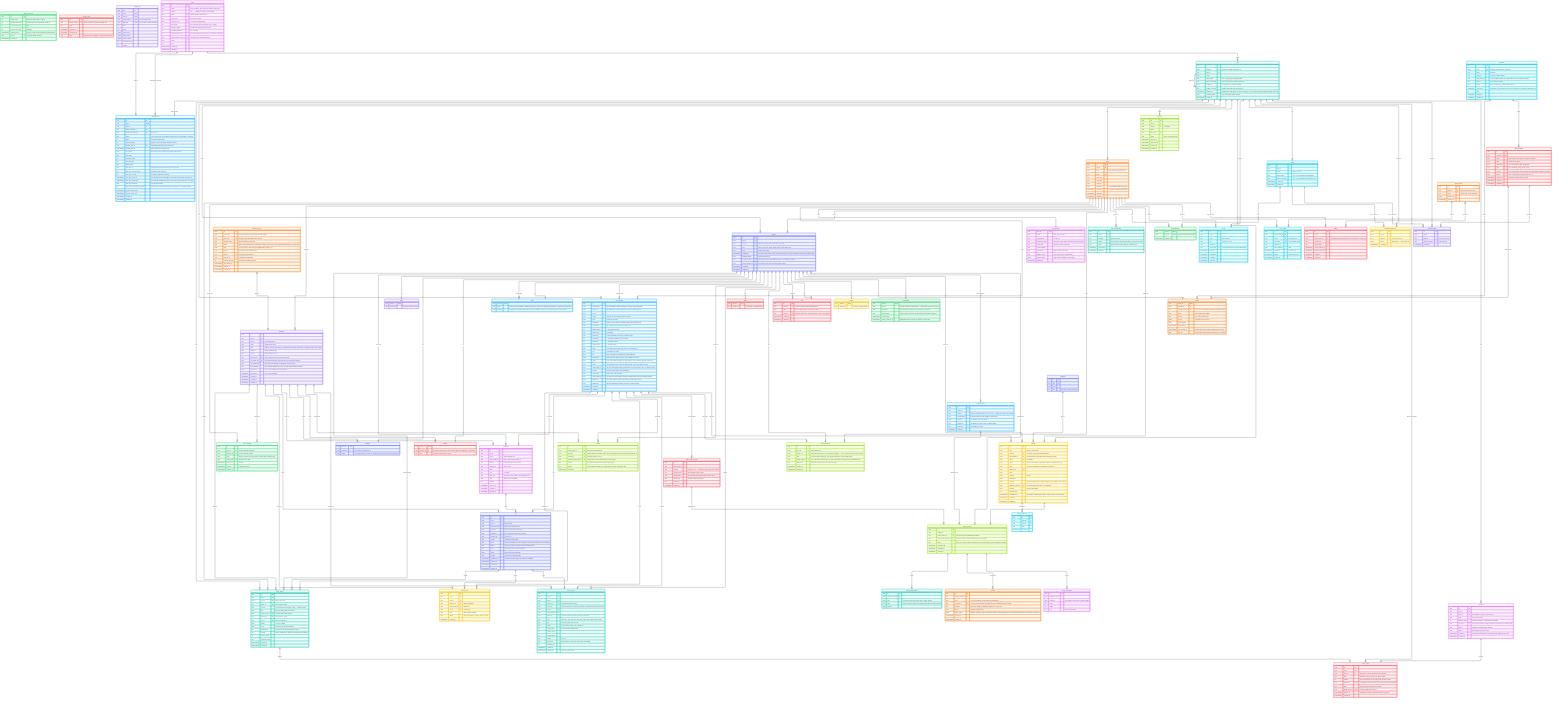
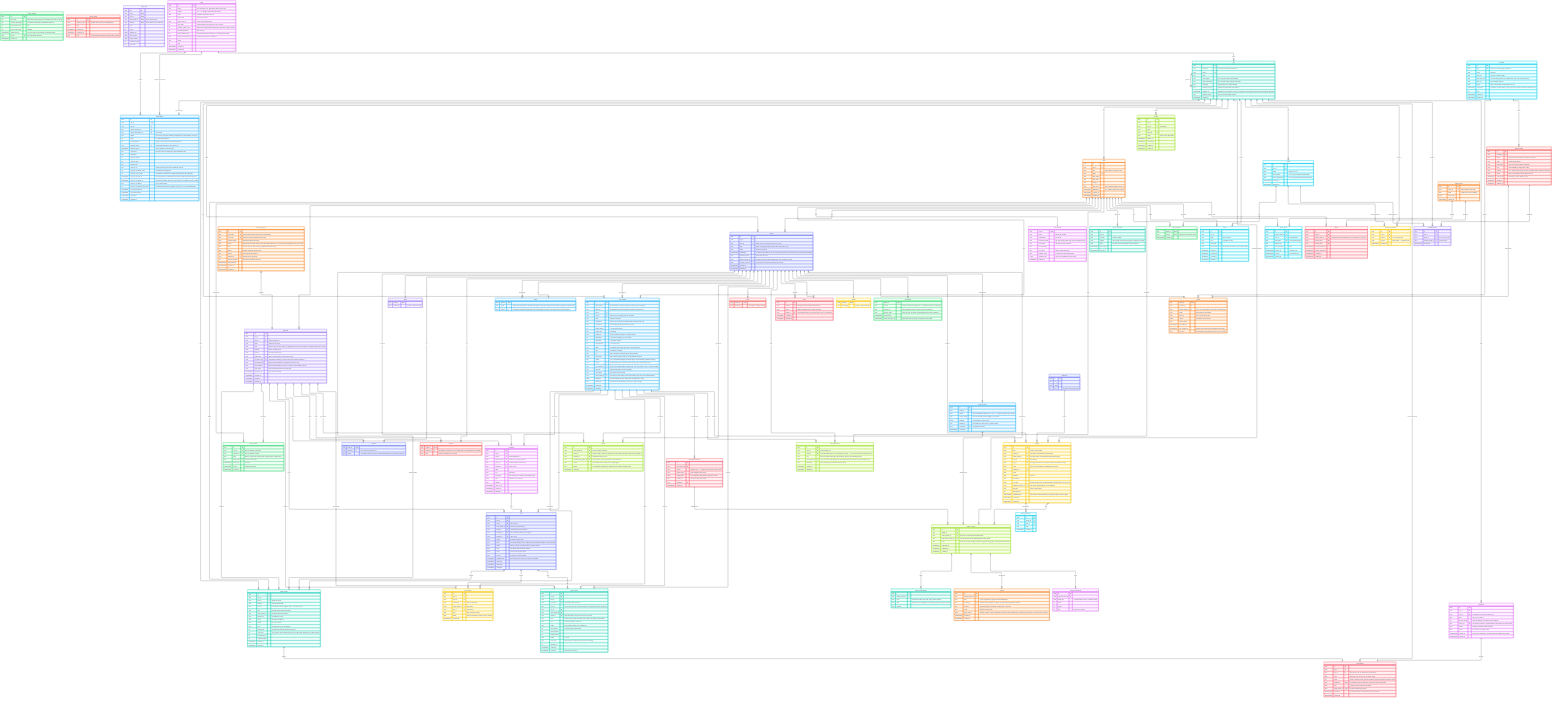
Credits are dollars, as Anthropic's are: balance, allowance, top-ups and charges kept and shown in dollars (cents); a connection call is 2¢ per started 30 seconds; auto top-up reloads to a target balance; plans' included usage credit re-picked below each plan's price ($1, $10, $10 a seat, $50 a seat

diff --git a/docs/architecture.md b/docs/architecture.md
@@ -257,8 +257,8 @@ Decided 2026-10-11. Two UIs, split by isolation:
 
 **Usage and billing** read the server's usage events and credit ledger through the API, scoped as the data model says (a user their own, an org admin the org, a super admin every org):
 
-- **Usage:** the period's credits used and left, then the same calls grouped by user, by connector, by super power, by machine and by day, and the call log under it: time, user, super power, machine, connector, tool, duration, credits and status, filtered by any of them and exported as CSV. Each row opens to its full detail.
-- **Billing** (org admins): the plan, seats, included and extra machines, the period's dates, the credit allowance and packs with their ledger, upgrading, buying a pack, and Stripe's own pages for checkout, invoices and payment methods.
+- **Usage:** the period's credit used and left, in dollars, then the same calls grouped by user, by connector, by super power, by machine and by day, and the call log under it: time, user, super power, machine, connector, tool, duration, credits and status, filtered by any of them and exported as CSV. Each row opens to its full detail.
+- **Billing** (org admins): the plan, seats, included and extra machines, the period's dates, the included usage credit, the balance and its ledger in dollars, upgrading, adding funds, and Stripe's own pages for checkout, invoices and payment methods.
 
 The API behind them is three operations, also MCP tools so an agent can answer "what did we spend on Gmail this month": a summary grouped by one dimension over a time range, the call log (filtered, newest first, paged by cursor), and the balance with its ledger.
 
@@ -404,7 +404,7 @@ erDiagram
         int price_cents "per seat, per month"
         text stripe_price_id UK "null for Free and Enterprise"
         int max_seats "the most seats an org may have; null = no limit"
-        int monthly_credits "included each billing period, per seat"
+        int monthly_credit_cents "usage credit included each billing period, per seat, in dollars (cents)"
         int included_machines "null = no limit"
         int extra_machine_cents "per extra machine per month; null = no extras on this plan"
         text stripe_machine_price_id UK "the Stripe price extras are billed on"
@@ -701,7 +701,7 @@ erDiagram
         text billing_email
         bool auto_top_up "charge the card on file when the balance runs low"
         int auto_top_up_below_cents "the balance that triggers it"
-        int auto_top_up_cents "how much it adds: $5 to $10,000"
+        int auto_top_up_to_cents "the balance it reloads to (it charges the difference, $5 to $10,000)"
         timestamptz auto_top_up_last_at "the last attempt: one attempt per 10 minutes, taken under the org's lock"
         timestamptz auto_top_up_failed_at "the card was refused: auto top-up is off until an org admin turns it on again"
         text auto_top_up_failure "why, as Stripe said it"
@@ -717,7 +717,7 @@ erDiagram
         uuid org_id FK
         uuid user_id FK "who spent it; null for allowances and purchases"
         text entry "allowance, top_up, auto_top_up, grant, usage"
-        int credits "plus for allowance, top-ups and grants, minus for usage"
+        int cents "credit, in dollars (cents): plus for allowance, top-ups and grants, minus for usage"
         uuid payment_id FK, UK "the payment a top-up came from; at most one entry per payment"
         text note "a grant's reason, from the super admin"
         uuid usage_event_id FK, UK "the call a usage entry pays for"
@@ -738,7 +738,7 @@ erDiagram
         text status "ok, error, refused"
         text error "the reason, for error and refused"
         int duration_ms "the time the call took, timed by the server"
-        int credits "max(1, ceil(seconds / 30)) for a call made; 0 when refused"
+        int cost_cents "call_cents for each started seconds_per_charge (2¢ per started 30 s); 0 when refused"
         int request_bytes
         int response_bytes
         timestamptz started_at
@@ -747,8 +747,8 @@ erDiagram
 
     billing_settings {
         uuid id PK
-        int credit_cents "what one credit costs: 2 = $0.02"
-        int seconds_per_credit "a connection call's seconds per credit: 30"
+        int call_cents "what each started stretch of a connection call costs: 2 = $0.02"
+        int seconds_per_charge "the stretch: 30 seconds, as Pipedream counts it"
         int top_up_min_cents "500"
         int top_up_max_cents "1000000"
         timestamptz effective_from "the row in force is the newest one already started"
@@ -790,7 +790,7 @@ erDiagram
         bigint input_tokens
         bigint output_tokens
         int connection_calls
-        int credits
+        int cost_cents
     }
 
     payments {
@@ -1084,15 +1084,15 @@ Seats are billed as the old server billed them (his rule, 2026-09-18):
 
 The plans carried over from the old server:
 
-| Plan | Price per seat | Seats | Credits each month | Machines included | Extra machine |
+| Plan | Price per seat | Seats | Usage credit each month | Machines included | Extra machine |
 |---|---|---|---|---|---|
-| Free | $0 | 1 | 100 | 2 | none |
-| Solo | $20 | 1 | 2,000 | 3 | $5 a month |
-| Basic | $40 | up to 25 | 2,500 per seat | 10 | $5 a month |
-| Pro | $150 | up to 100 | 10,000 per seat | 50 | $5 a month |
+| Free | $0 | 1 | $1 | 2 | none |
+| Solo | $20 | 1 | $10 | 3 | $5 a month |
+| Basic | $40 | up to 25 | $10 per seat | 10 | $5 a month |
+| Pro | $150 | up to 100 | $50 per seat | 50 | $5 a month |
 | Enterprise | arranged | no limit | arranged | no limit | n/a |
 
-These are a first pick (2026-10-11), to adjust. **Every number lives in the database and a super admin changes it on Glyphh admin → Plans:** a plan's price, seats, credits, machines and Stripe prices (each change is the plan's next version, above), and the billing settings (`billing_settings`: the price of a credit, the seconds a credit buys, the smallest and largest top-up), each kept with who set it and from when.
+These are a first pick (2026-10-11), to adjust. **Every number lives in the database and a super admin changes it on Glyphh admin → Plans:** a plan's price, seats, credits, machines and Stripe prices (each change is the plan's next version, above), and the billing settings (`billing_settings`: what a connection call costs per started stretch, the stretch's seconds, the smallest and largest top-up), each kept with who set it and from when.
 
 An org that already has its included machines plus its extras cannot register another: signing in from one more machine is refused with the reason (on Free: "Free includes 2 machines. Upgrade, or remove one."), and nothing is half registered.
 
@@ -1229,22 +1229,22 @@ A machine's shell over SSH is off until the member turns it on (`shell_enabled`)
 
 ### Billing and usage
 
-An org pays a monthly fee for its plan, and the plan includes credits each billing period. Usage spends credits, and a Glyphh credit is a Pipedream credit: 30 seconds of a connection call. The server relays every connection call and times it, so a call costs `max(1, ceil(seconds / 30))` credits, exactly what Pipedream bills Glyphh for it. Model calls cost nothing here: they go straight to the provider on the member's own key.
+An org pays a monthly fee for its plan, and the plan includes usage credit each billing period. **Credits are dollars** (decided 2026-10-11, as Anthropic does it): the balance, the allowance, top-ups and every charge are shown and kept in dollars. Usage spends credit, and Pipedream counts a connection call in 30-second stretches. The server relays every connection call and times it, so a call costs 2¢ for each started 30 seconds (`billing_settings`: `call_cents`, `seconds_per_charge`), above the $0.012 Pipedream charges Glyphh for each stretch. Model calls cost nothing here: they go straight to the provider on the member's own key.
 
-What Pipedream charges Glyphh (Connect, Startup plan): $99 a month billed annually ($150 monthly) for 100 external users and 10,000 credits a month, then $2 per external user and $0.012 per credit. A connected user is a seat cost, so it belongs in the plan's price per seat; a call is a credit.
+What Pipedream charges Glyphh (Connect, Startup plan): $99 a month billed annually ($150 monthly) for 100 external users and 10,000 credits a month, then $2 per external user and $0.012 per credit. A connected user is a seat cost, so it belongs in the plan's price per seat; a call is usage.
 
 - **The cap is the tier.** When an org's credits run out, its connection calls stop until the next period, with a clear message; there is never a surprise bill. An org can upgrade, or add funds.
 - **subscriptions** tie an org to its Stripe customer and subscription, its plan, its status and its current period, as the old server did, plus what the old server lacked: a downgrade waiting for the period's end (`pending_plan_id`), and the card on file for display (brand, last four, expiry), kept current from Stripe's webhooks. Stripe keeps the card itself and the invoices; the invoice list is read from Stripe.
-- **credit_ledger** is the whole story of an org's credits, append only: each period's allowance, each top-up and grant, and each use. The balance is the sum of what has not expired, so it is never stored twice. A usage entry points at the call it paid for; a top-up entry at its payment, at most one entry per payment, so a webhook and a reconcile arriving together can never add the same money twice.
-- **Grants and comped plans** (super admins): a grant (a gift) adds credits with a note; a comped plan is a plan with no charge (`status` comped).
+- **credit_ledger** is the whole story of an org's credit, in dollars (cents), append only: each period's allowance, each top-up and grant, and each use. The balance is the sum of what has not expired, so it is never stored twice. A usage entry points at the call it paid for; a top-up entry at its payment, at most one entry per payment, so a webhook and a reconcile arriving together can never add the same money twice.
+- **Grants and comped plans** (super admins): a grant (a gift) adds credit, in dollars, with a note; a comped plan is a plan with no charge (`status` comped).
 
 #### Adding funds, as the old server did
 
-- **One-off top-ups, no packs:** an org admin adds any amount from $5 to $10,000, in US dollars, through Stripe Checkout (Stripe's own page, embedded). The card is saved for auto top-up as it pays. A `payments` row is made when the Checkout starts (pending); Stripe's webhook settles it (succeeded or failed), and only a succeeded payment adds credits to the ledger. A reconcile from Stripe backs the webhook up.
-- **Auto top-up:** on, a threshold and an amount. When a connection call leaves the balance under the threshold, the server charges the card on file (a PaymentIntent, off session) for the amount. The attempt is taken under the org's row lock with a 10-minute gap, so two servers can never charge twice for one dip. A refused card switches auto top-up off, records why, and tells the org admins; it never retries a refused card in a loop. A payment Stripe confirms later (processing, then succeeded) still lands, from its webhook.
-- **How dollars become credits** (decided 2026-10-11): Glyphh bills in credits. **One credit is $0.02**, above Pipedream's $0.012, and a top-up becomes credits at the price in force that day (`billing_settings`), so a $5 top-up is 250 credits. Bought credits never expire; a plan's monthly credits end with the period.
+- **One-off top-ups, no packs:** an org admin adds any amount from $5 to $10,000, in US dollars, through Stripe Checkout (Stripe's own page, embedded). The card is saved for auto top-up as it pays. A `payments` row is made when the Checkout starts (pending); Stripe's webhook settles it (succeeded or failed), and only a succeeded payment adds credit to the ledger. A reconcile from Stripe backs the webhook up.
+- **Auto top-up, as Anthropic's auto-reload:** on, a threshold and a balance to reload to. When a connection call leaves the balance under the threshold, the server charges the card on file (a PaymentIntent, off session) for the difference up to the reload balance. The attempt is taken under the org's row lock with a 10-minute gap, so two servers can never charge twice for one dip. A refused card switches auto top-up off, records why, and tells the org admins; it never retries a refused card in a loop. A payment Stripe confirms later (processing, then succeeded) still lands, from its webhook.
+- **Credit is dollars:** a $5 top-up is $5 of credit. A plan's monthly credit ends with the period; how long bought credit lasts is open (see [Open](#open)).
 - **Auto top-up has an optional monthly cap** an org admin sets (`auto_top_up_monthly_cap_cents`), off by default.
-- **Runs cost nothing:** they run on the member's own machine. Only connection calls spend credits.
+- **Runs cost nothing:** they run on the member's own machine. Only connection calls spend credit.
 
 #### Changing plans, as the old server did
 
@@ -1259,7 +1259,7 @@ What Pipedream charges Glyphh (Connect, Startup plan): $99 a month billed annual
 
 One call, as the relay handles it:
 
-1. **Check:** lock the org's row and read the balance. At 0, the call is refused with the reason and logged as `refused` (0 credits). Nothing reaches Pipedream.
+1. **Check:** lock the org's row and read the balance. At $0, the call is refused with the reason and logged as `refused` ($0). Nothing reaches Pipedream.
 2. **Call:** relay it to Pipedream and time it.
 3. **Record:** in one transaction, a `usage_events` row and its `credit_ledger` usage entry. A call that fails at Pipedream is still logged (`error`) and still costs what Pipedream bills for it.
 
@@ -1275,7 +1275,7 @@ The check runs before the cost is known, so calls already in flight when the bal
 Decided 2026-10-11. Beside the metered connection calls, rrotor reports each use of a power inside a run, so members, org admins and publishers can see what is used, how often and how well. Counts and times only, **never content**: no prompts, arguments, results or keys. None of it is billed, and it never decides a charge.
 
 - **power_events:** one row per use, sent by rrotor over its machine connection in batches: the model call (with the input, output and cached tokens exactly as the provider reported them, and the provider's model id), a tool call of a plugin or of rrotor's own, a skill loaded, a task step, a folder read or written, a browser session. Each carries its run, super power, power, machine, user and org, its status and how long it took. Each has rrotor's own event id (unique per machine), so a batch sent twice is counted once. Append only, partitioned by month like `usage_events`.
-- **usage_daily:** the nightly roll-up of both tables, per day, org, user, super power and power: uses, errors, time, tokens, and connection calls and credits. Every usage page reads it, and a day still running is read from the raw rows.
+- **usage_daily:** the nightly roll-up of both tables, per day, org, user, super power and power: uses, errors, time, tokens, and connection calls and their cost. Every usage page reads it, and a day still running is read from the raw rows.
 - **Listings:** a publisher sees their listing's installs (powers installed from its versions), installs used in the last 30 days, and runs; the marketplace ranks by them.
 - **Trust:** a modified rrotor can only misreport its own member's insight, never a bill: what is billed is counted by the server.
 
@@ -1285,7 +1285,7 @@ The same rows serve every view, scoped by the principal:
 
 - **A user** sees their own calls and their org's balance.
 - **An org admin** sees every call in the org, by user, by connector, by super power, by machine and by day, and the ledger.
-- **A super admin** sees every org, and what Glyphh owes Pipedream for it: the same credits, at Pipedream's price.
+- **A super admin** sees every org, and what Glyphh owes Pipedream for it: the same calls' 30-second stretches, at Pipedream's $0.012.
 
 ### Stripe
 
@@ -1351,7 +1351,7 @@ Everything open: decisions still to make, things to draw, work found but not sta
 
 #### Decisions
 
-None open: every decision so far is made (2026-10-11).
+- **How long bought credit lasts:** a year after purchase, as Anthropic's does, or never.
 
 #### To draw
 
